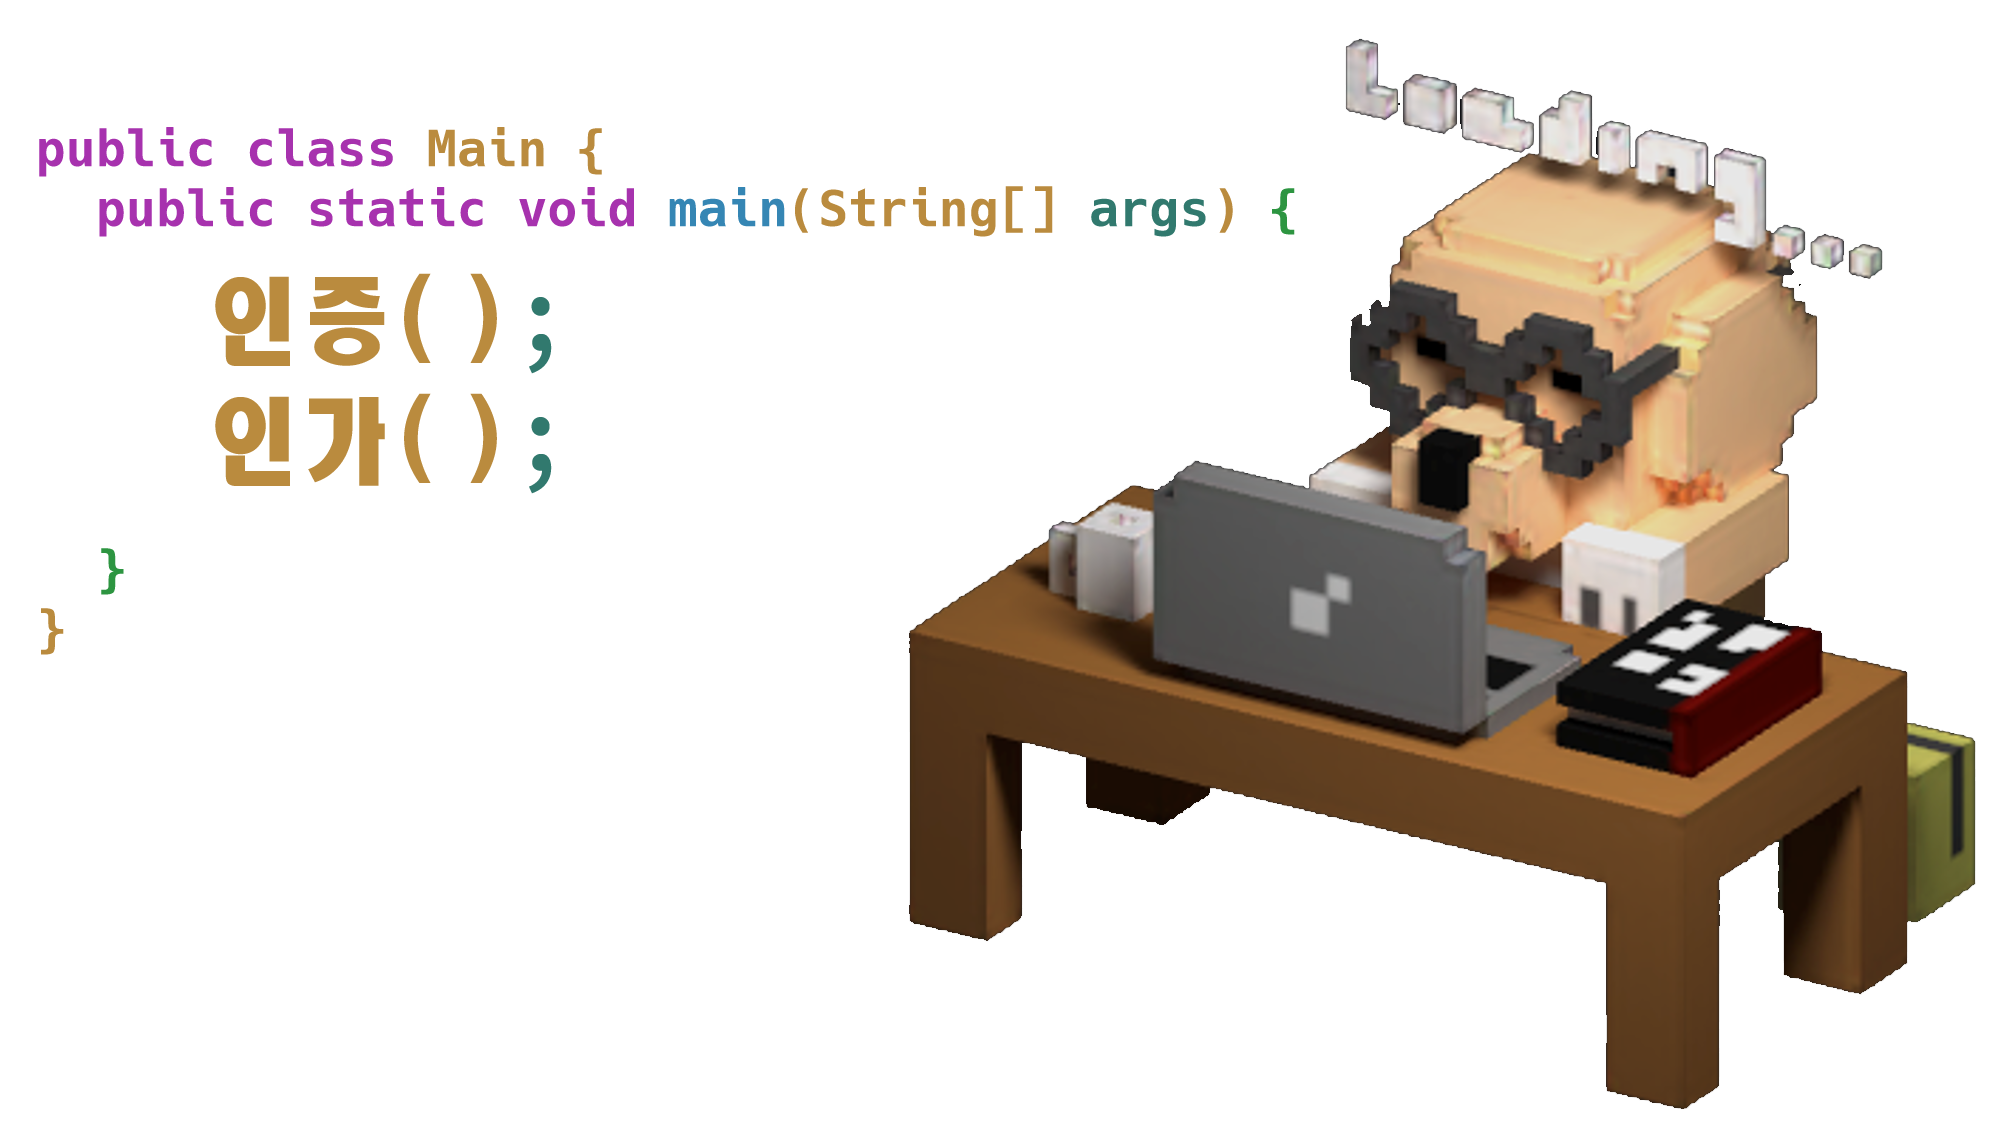
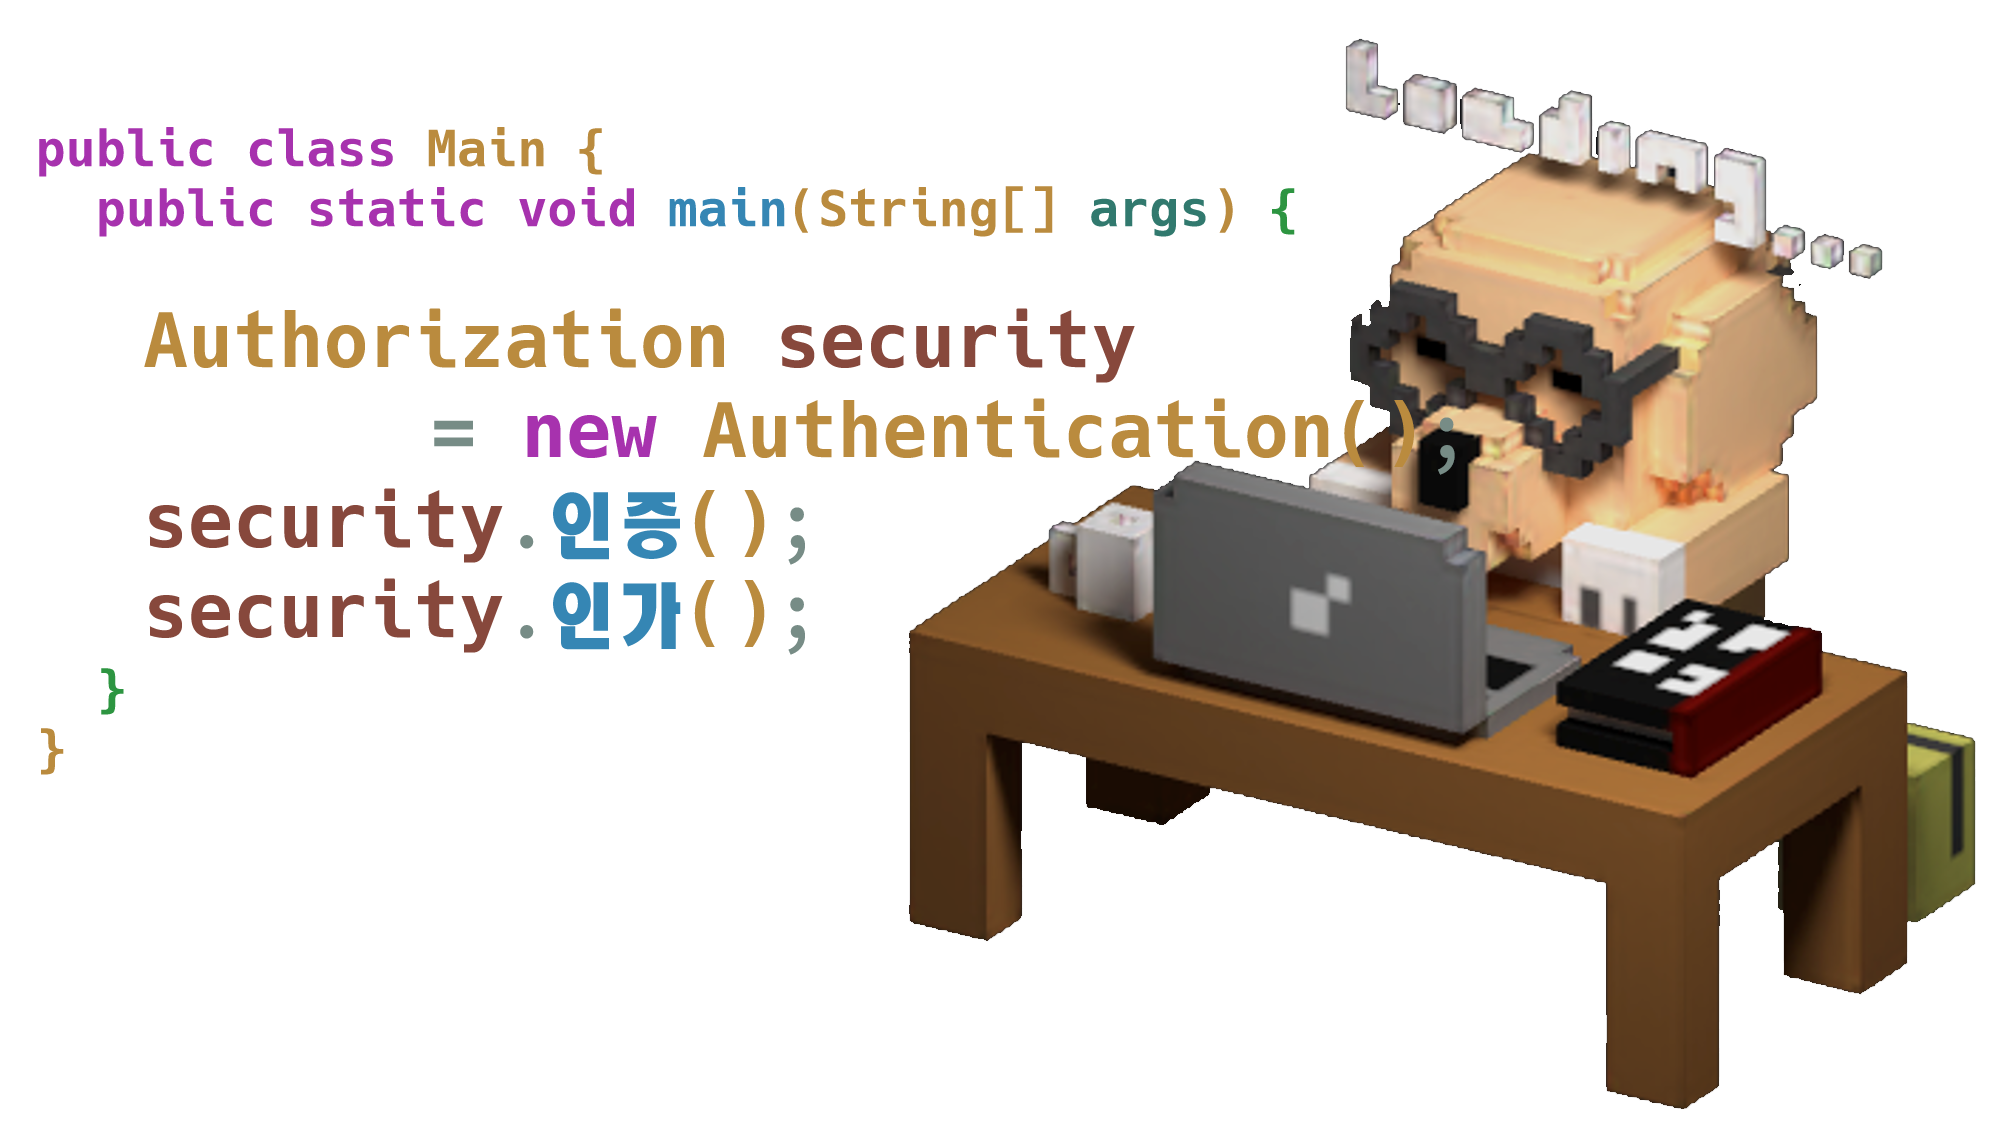
change posts main cover img

diff --git a/_posts/development/server/2023-01-26-oauth.md b/_posts/development/server/2023-01-26-oauth.md
@@ -1,11 +1,11 @@
 ---
 layout: post
-title: "[Security] OAuth"
-subtitle: "OAuth"
+title: "[Security] OAuth2.0"
+subtitle: "OAuth2.0"
 category: development
-tags: server Security OAuth 개념 
+tags: server security authorization oauth2.0 개념 
 image:
-  path: /assets/img/development/server/2023-01-26/oauth.png
+  path: /assets/img/development/server/2023-01-26/oauth_cover.png
 ---
 
 > “해당 포스팅은 **우아한Tech**의 [**[10분 테코톡] 토닉, 후디의 인증과 인가 - 부족사회부터 소셜로그인까지**](https://www.youtube.com/watch?v=BotXDfBPvDA)을 참고하여 포스팅하였습니다. 영상을 제작해주신 **우아한Tech**와 **토닉, 후디**님에게 감사드립니다.”

diff --git a/_posts/development/server/2023-02-08-openid.md b/_posts/development/server/2023-02-08-openid.md
@@ -3,9 +3,9 @@ layout: post
 title: "[Security] OpenID"
 subtitle: "OpenID"
 category: development
-tags: server Security OpenID 개념
+tags: server security authentication openid 개념
 image:
-    path: /assets/img/development/server/2023-02-08/openid.png
+    path: /assets/img/development/server/2023-02-08/openid_cover.png
 ---
 
 > “해당 포스팅은 **우아한Tech**의 [**[10분 테코톡] 토닉, 후디의 인증과 인가 - 부족사회부터 소셜로그인까지**](https://www.youtube.com/watch?v=BotXDfBPvDA)을 참고하여 포스팅하였습니다. 영상을 제작해주신 **우아한Tech**와 **토닉, 후디**님에게 감사드립니다.”

diff --git a/_posts/development/server/2023-02-23-osi-7-layer.md b/_posts/development/server/2023-02-23-osi-7-layer.md
@@ -1,0 +1,18 @@
+---
+layout: post
+title: "[Network] OSI 7 Layer"
+subtitle: "OSI 7 Layer"
+category: development
+tags: server Network OSI7Layer TCP/IP 개념
+image:
+    path: /assets/img/development/server/2023-02-23/osi_7_layer_cover.png
+---
+
+> “해당 포스팅은 **우아한Tech**의 [**[10분 테코톡] 🔮 히히의 OSI 7 Layer**](https://www.youtube.com/watch?v=1pfTxp25MA8&t=35s){:target="_blank"}을 참고하여 포스팅하였습니다. 영상을 제작해주신 **우아한Tech**와 **히히**님에게 감사드립니다.”
+
+<span style="font-size:30px;">\#**목차**</span>
+
+* this unordered seed list will be replaced by the toc
+{:toc}
+
+# OpenID

diff --git a/_posts/development/server/2023-01-02-jvm-stack-and-heap.md b/_posts/development/server/2023-01-02-jvm-stack-and-heap.md
@@ -5,7 +5,7 @@ subtitle: "Java Virtual Machine의 Stack & Heap"
 category: development
 tags: server java JVM Stack Heap
 image:
-  path: /assets/img/development/server/2023-01-02/jvm_stack_heap_title.png
+  path: /assets/img/development/server/2023-01-02/jvm_stack_heap_cover.png
 ---
 
 > “해당 포스팅은 **우아한Tech**의 [**[10분 테코톡] 🎅무민의 JVM Stack & Heap**](https://www.youtube.com/watch?v=UzaGOXKVhwU&list=LL&index=9&t=632s)의 영상을 기반으로 포스팅하였습니다. 또한 설명이 너무 잘되어었어 복습하고자 글로 남깁니다. 영상을 제작해주신 **우아한Tech**와 **무민**님에게 감사드립니다.”

diff --git a/_posts/development/server/2022-12-25-what-is-java.md b/_posts/development/server/2022-12-25-what-is-java.md
@@ -5,7 +5,7 @@ subtitle: "what is Java"
 category: development
 tags: server java
 image:
-  path: /assets/img/development/server/2022-12-25/java_title.png
+  path: /assets/img/development/server/2022-12-25/java_cover.png
 ---
 
 <span style="font-size:30px;">\#**목차**</span>

diff --git a/_posts/development/server/2023-01-18-authentication-authorization.md b/_posts/development/server/2023-01-18-authentication-authorization.md
@@ -1,6 +1,6 @@
 ---
 layout: post
-title: "[Security] 인증(Authentication)과 인가(Authorization)"
+title: "[Security] 인증과 인가"
 subtitle: "인증과 인가"
 category: development
 tags: server 인증 인가
